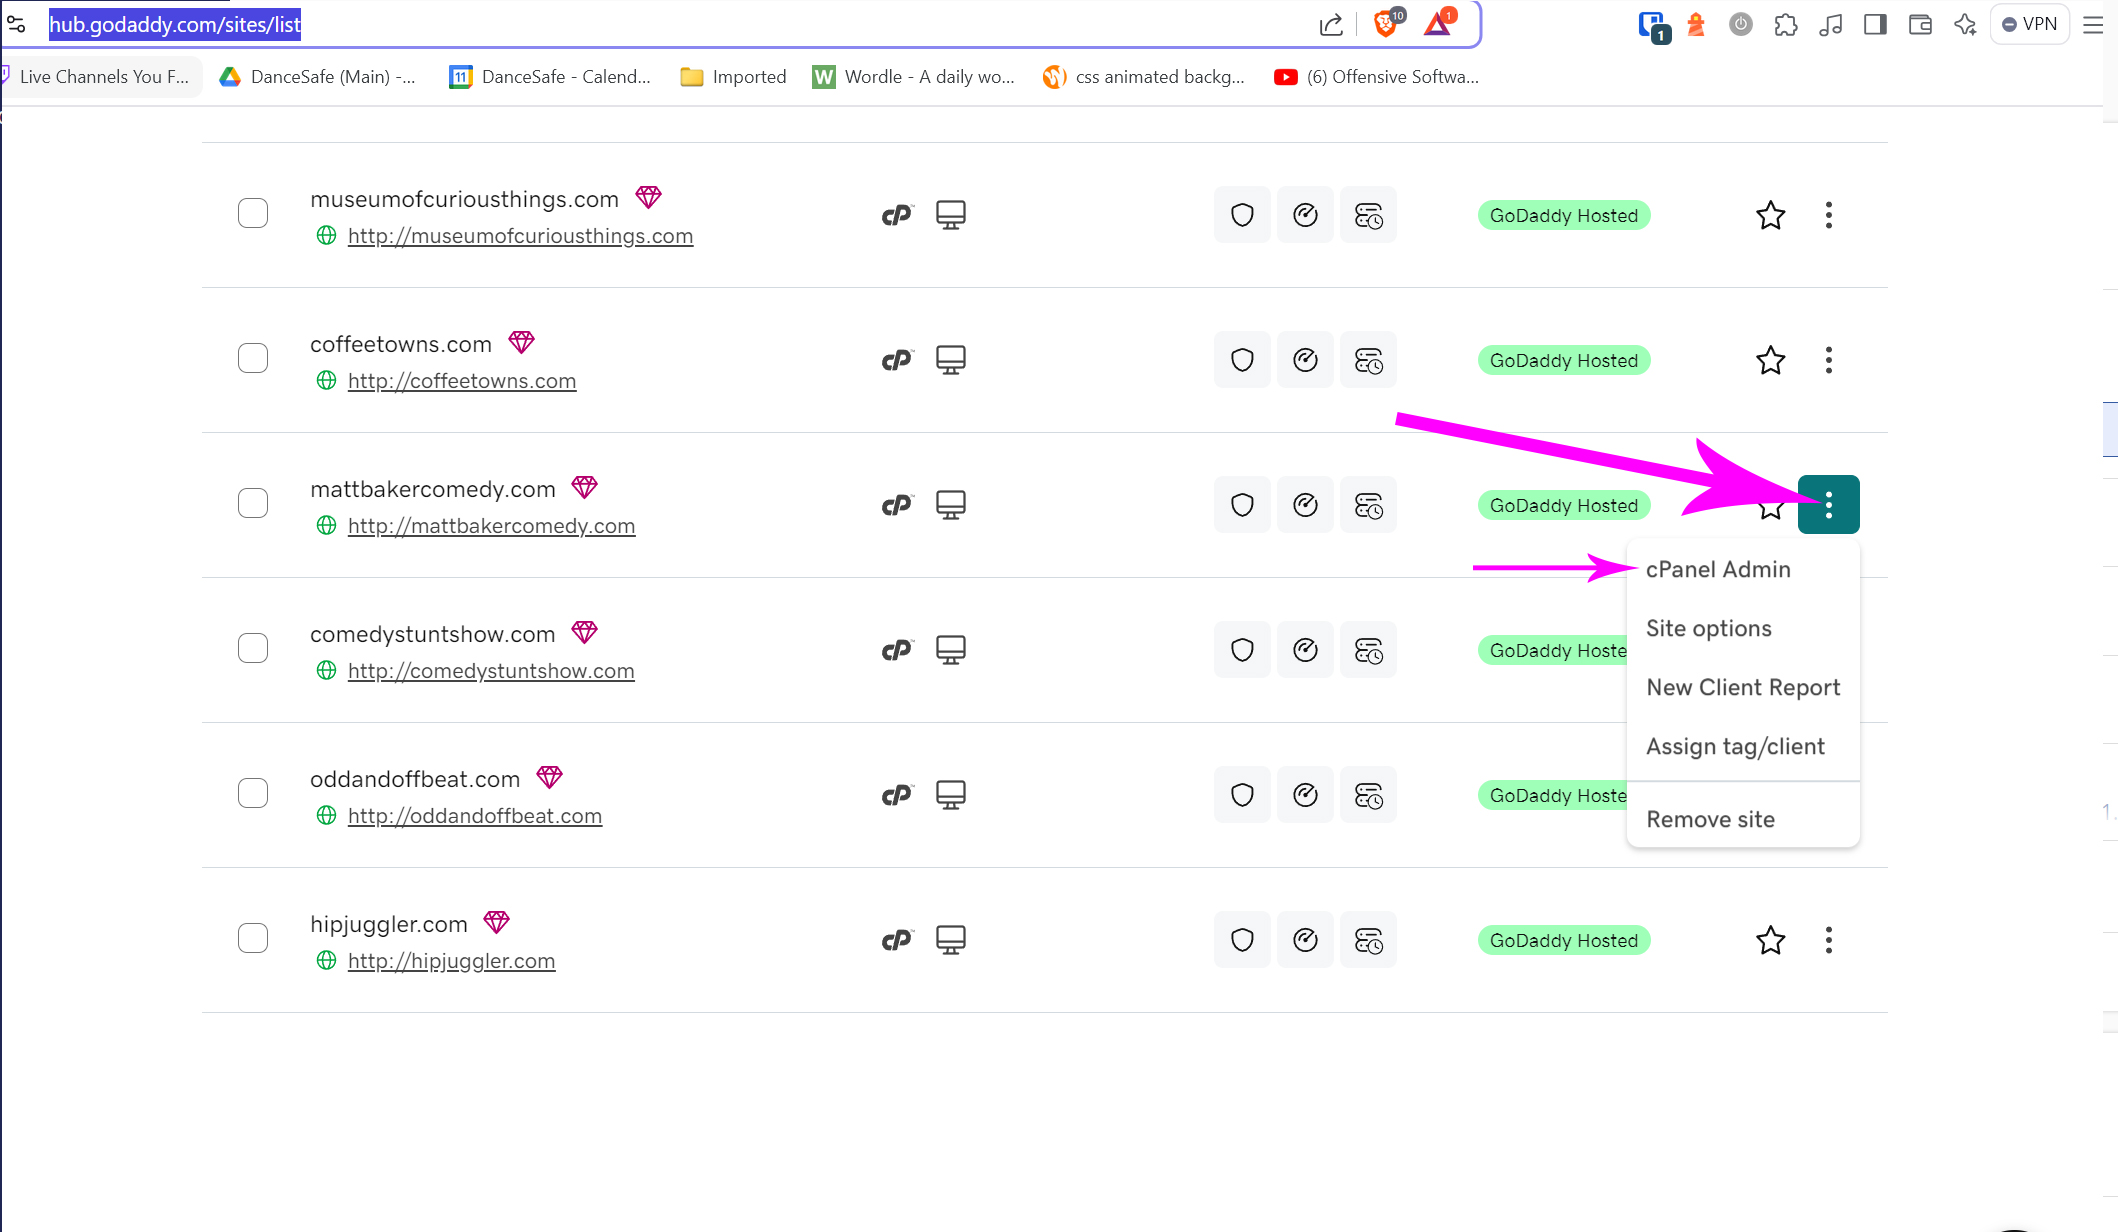
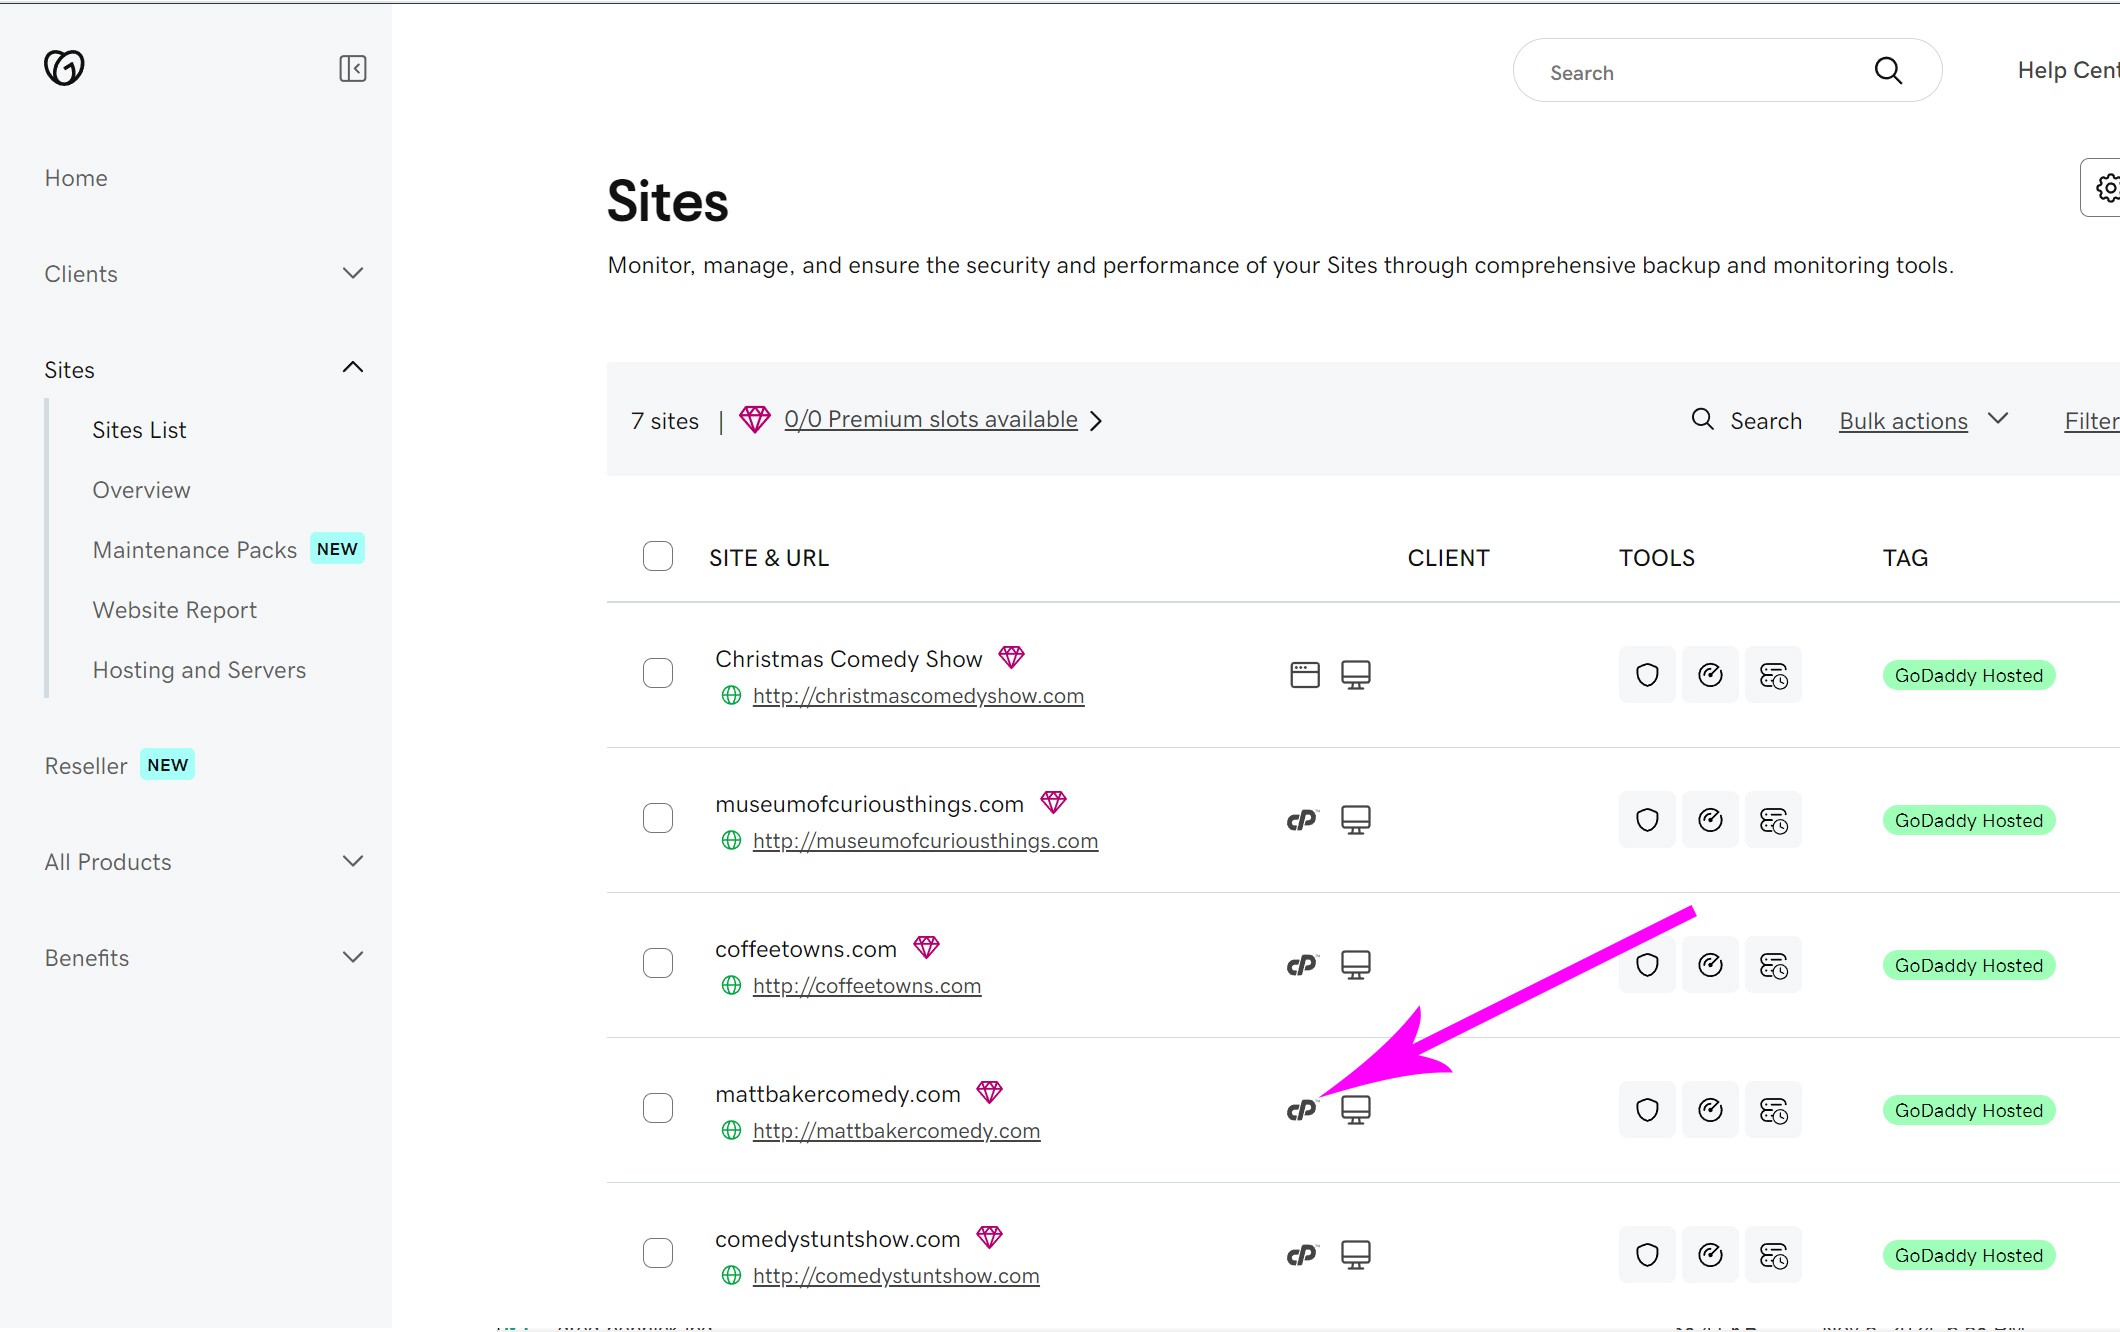
How-to finished

diff --git a/how-to-add/how-to.html b/how-to-add/how-to.html
@@ -1,36 +1,44 @@
 <head>
     <style>
         img {
-            max-width: 100%;
+            max-width: 80%;
             border: 2px black solid;
         }
     </style>    
 </head>
 
 <h1>Hi Matt!</h1>
-<br>
 <h2>Here's how to add new artists to your site.</h2>
-<h3>GoDaddy doesn't make this super easy but lk you through it.</h3>
-<h3>The only hassle is adding an artist's image. Everything else is done in this spreadsheet:<br>
-<a href="https://docs.google.com/spreadsheets/d/1tFTQRY0HDTZCMGWQy0helNDCgRiW73HlDQtfo9FKldg/edit?gid=691126045#gid=691126045" target="_blank">Artist Spreadsheet</a>
-<br><br>
-Add all the information you want about the new artist there.<br>
-Note that each new paragraph in their description should go into its own column.<br>
+<h3>First, upload the artist's image to the server:</h3>
+<h4>1. Make sure you're logged into GoDaddy, and then go to your Sites Hub: <a href="https://hub.godaddy.com/sites/list">https://hub.godaddy.com/sites/list</a><br>
 <br>
-To add the image, go to your sites' File Manager: <br>
-<br>
-<a href="https://p3plzcpnl506885.prod.phx3.secureserver.net:2083/cpsess8794044850/frontend/jupiter/filemanager/index.html">https://p3plzcpnl506885.prod.phx3.secureserver.net:2083/cpsess8794044850/frontend/jupiter/filemanager/index.html</a>
+2. Find mattbakercomedy.com and enter the cPanel by clicking this icon:<br>
+<img src="./cpanel-admin.jpg">
 <br><br>
-Then enter the public_html folder:<br>
+3. Then go into the File Manager:<br>
+<img src="./file-manager.jpg">
+<br><br>
+4. Then enter the public_html folder:<br>
 <img src="./public-html.jpg">
+<br><br>
+5. Navigate into the "mattbakercomedy.com" folder, through "assets" folder, and into the "images" folder.<br>
 <br>
-<br>Then enter the "mattbakercomedy.com" folder, then the "assets" folder, then the "images" folder after that:<br>
-<!-- <img src="./assets.jpg"> -->
-<br>
-Then click on the Upload button:<br>
+6. Once in the "images" folder, click on the Upload button:<br>
 <img src="./upload.jpg">
 <br><br>
-Then upload the image you want to use for the new artist, and add its filename (e.g. "curt-carlyle.jpg") to the spreadsheet in the "IMAGE NAME" column.<br>
+7. Upload the image you want to use for the new artist, whose filename you put into the "IMAGE NAME" column. IMPORTANT: filenames are case sensitive!<br>
 <br>
-Then you're done! If you ever want to change an artist on the site, you can just change it on the spreadsheet; to remove an artist, you can just delete their row.<br>
+8. Last, add the artist info on this sheet: <a href="https://docs.google.com/spreadsheets/d/1tFTQRY0HDTZCMGWQy0helNDCgRiW73HlDQtfo9FKldg/edit?gid=691126045#gid=691126045" target="_blank">Artist Spreadsheet</a></h3>
+<p>
+- ARTIST: the artist's name (e.g. "Matt Baker")<br>
+- BYLINE: the artist's short byline (e.g. "Comedy + Stunt Show")<br>
+- CATEGORY: jugglers, magicians, comedians, or variety<br>
+- IMAGE NAME: the exact filename of the image you're going to upload (see below)<br>
+- ALT TEXT: a short description of the image in text, important for accessibility (which affects your placement in web searches)<br>
+- VIDEO LINK: a link to your artist's online video (you can leave this empty if none exists)<br>
+- BIO: the first paragraph of the artist's bio<br>
+- BIO 2: the second paragraph of the artist's bio<br>
+- BIO 3: the third paragraph of the artist's bio, and so on.<br>
+(you can add as many paragraphs as you want!)<br>
 <br>
+Once you've added the info to the spreadsheet, it'll show up on the sites! If you ever want to change an artist on the site, you can just change it on the spreadsheet; to remove an artist, you can just delete their row.<br></h4>
